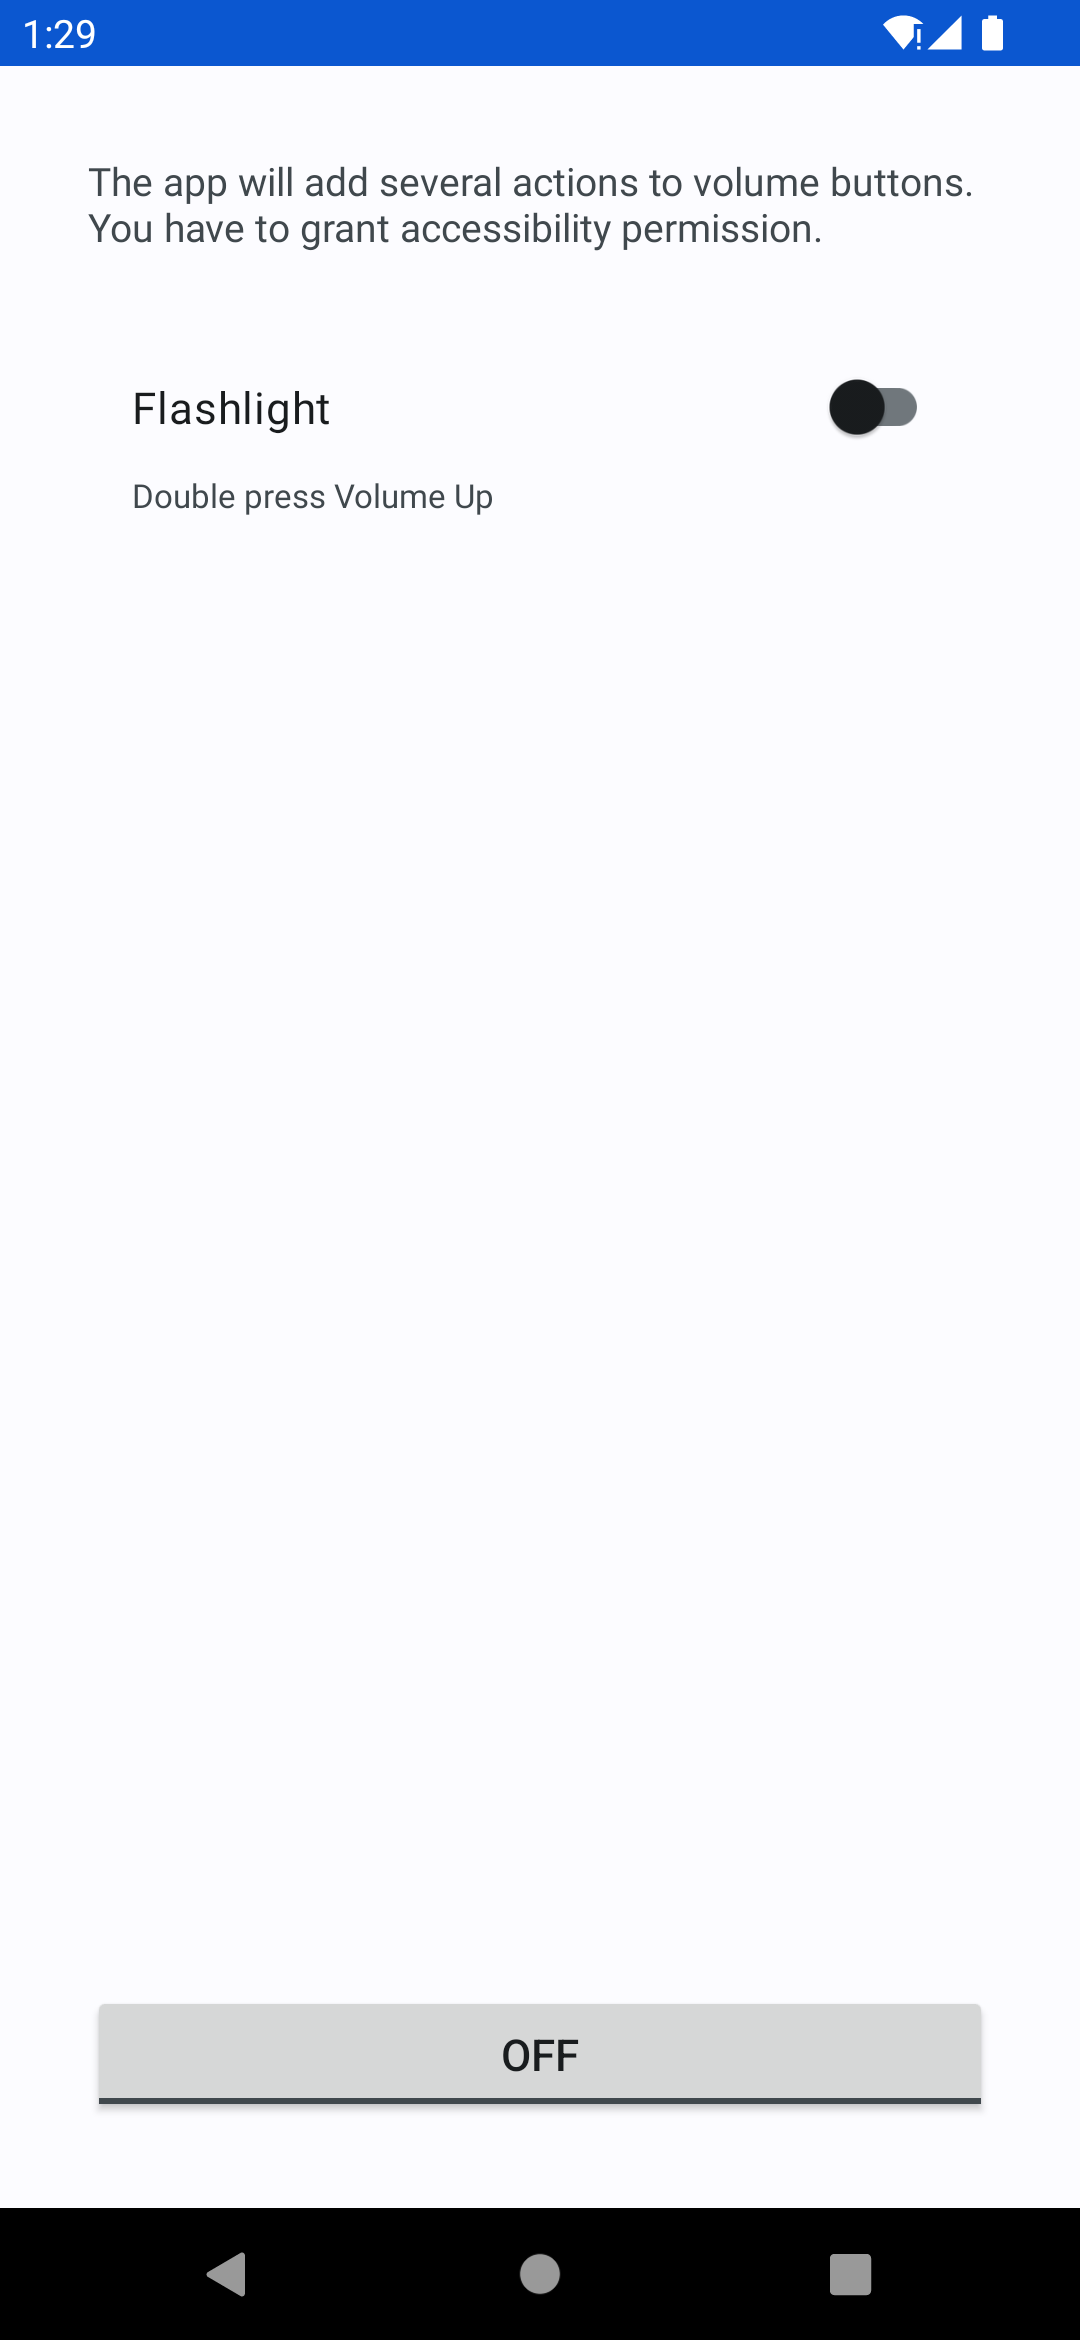
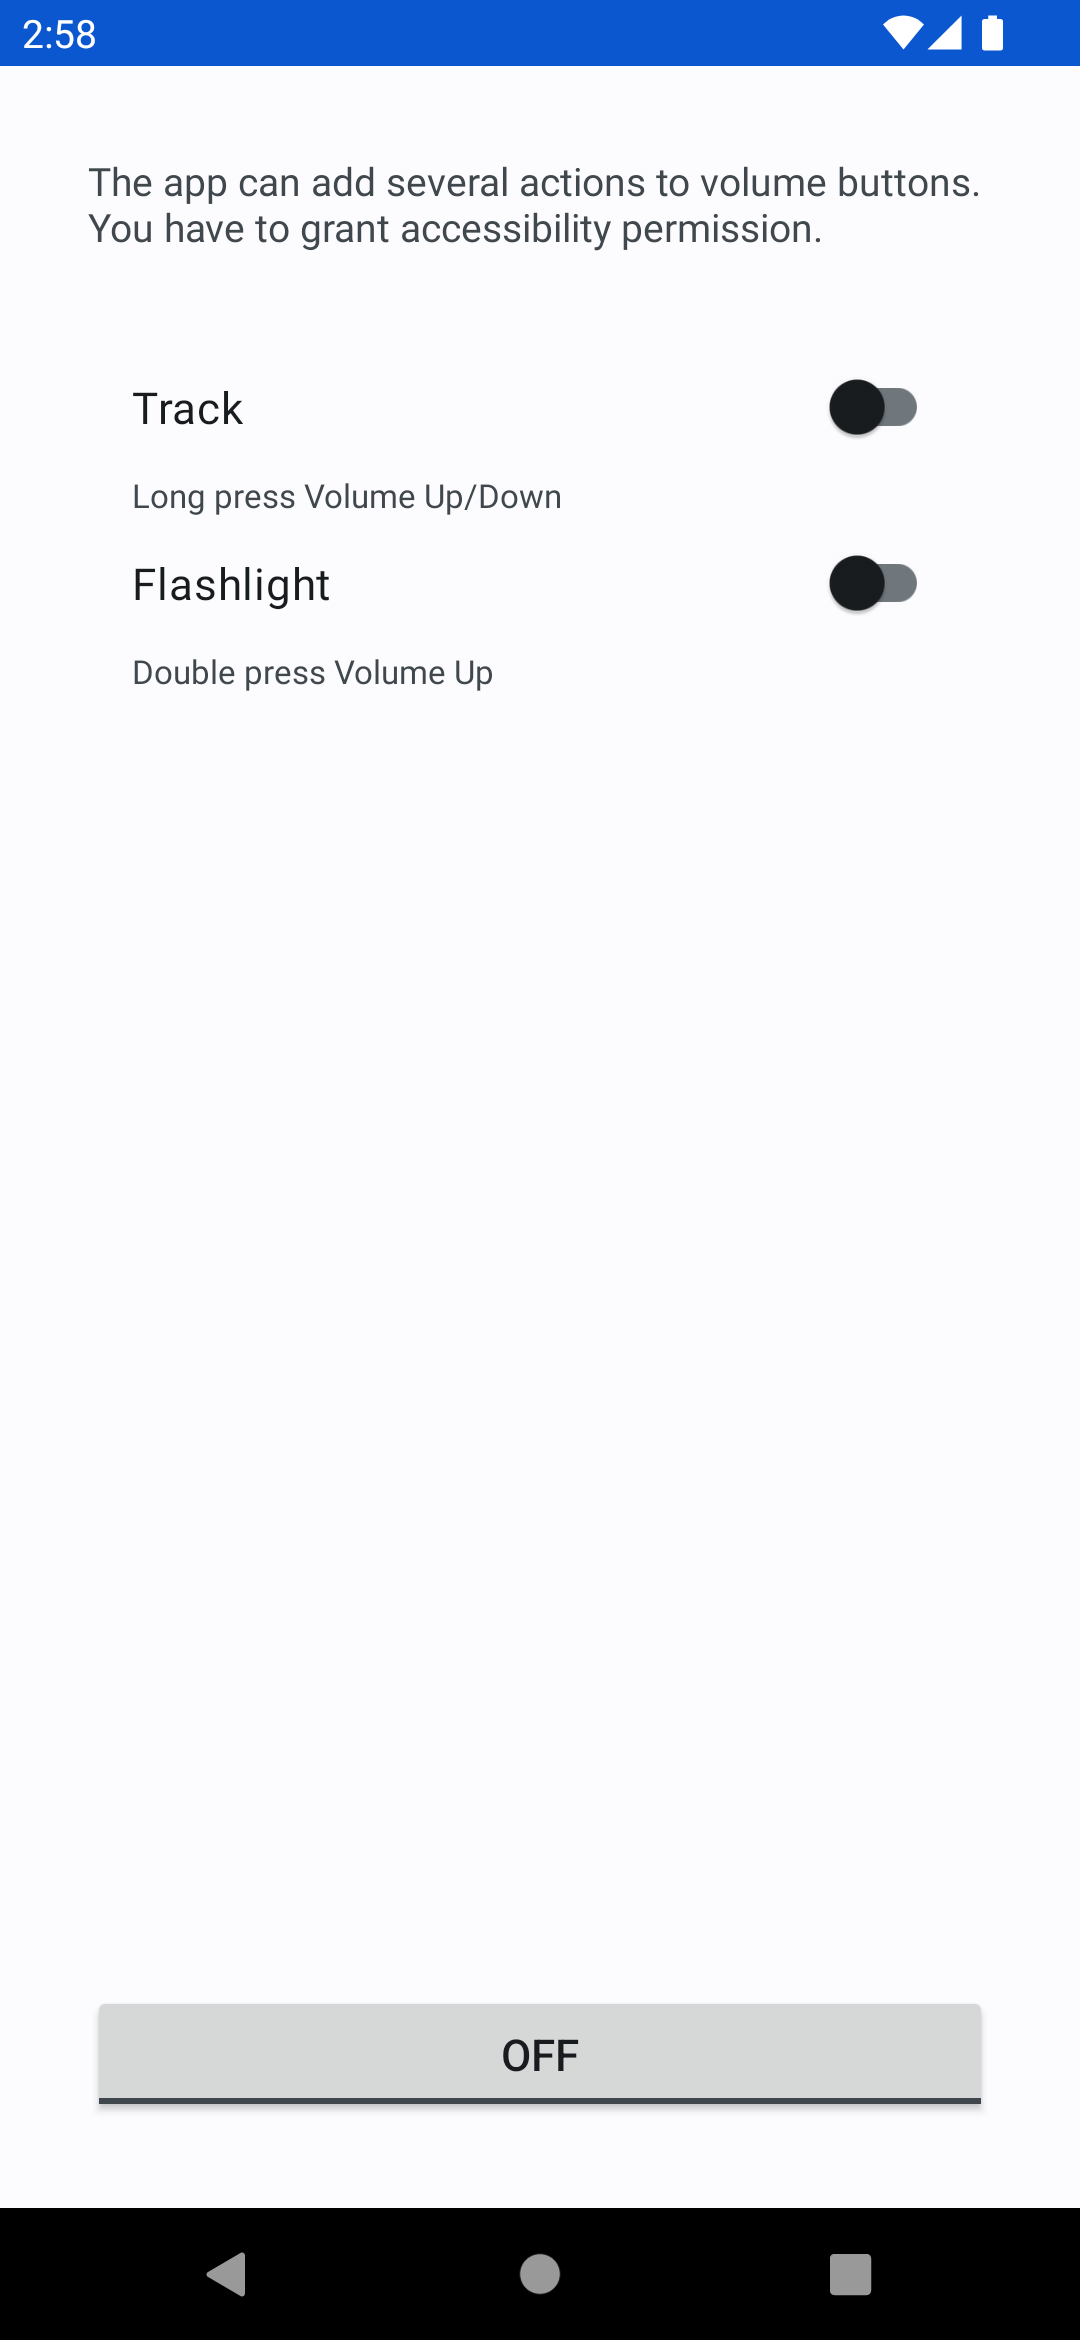
v1.0.4
change track switch
remove flashlight subsettings
auto-disable flashlight after 15m

diff --git a/app/src/main/java/me/lucky/volta/AccessibilityService.kt b/app/src/main/java/me/lucky/volta/AccessibilityService.kt
@@ -2,10 +2,6 @@ package me.lucky.volta
 
 import android.Manifest
 import android.accessibilityservice.AccessibilityService
-import android.hardware.Sensor
-import android.hardware.SensorEvent
-import android.hardware.SensorEventListener
-import android.hardware.SensorManager
 import android.hardware.camera2.CameraCharacteristics
 import android.hardware.camera2.CameraManager
 import android.media.AudioManager
@@ -28,11 +24,9 @@ class AccessibilityService : AccessibilityService() {
     }
 
     private lateinit var prefs: Preferences
-    private lateinit var proximityListener: ProximityListener
+    private lateinit var torchCallback: TorchCallback
     private var audioManager: AudioManager? = null
     private var cameraManager: CameraManager? = null
-    private var sensorManager: SensorManager? = null
-    private var proximitySensor: Sensor? = null
     private var vibrator: Vibrator? = null
     @RequiresApi(Build.VERSION_CODES.O)
     private var vibrationEffect: VibrationEffect? = null
@@ -43,7 +37,6 @@ class AccessibilityService : AccessibilityService() {
     private val longUpFlag = AtomicBoolean()
     private val doubleUpFlag = AtomicBoolean()
     private val upTime = AtomicLong()
-    private val torchCallback = TorchCallback()
 
     override fun onCreate() {
         super.onCreate()
@@ -60,16 +53,14 @@ class AccessibilityService : AccessibilityService() {
         longUpTask?.cancel()
         doubleUpTask?.cancel()
         cameraManager?.unregisterTorchCallback(torchCallback)
-        sensorManager?.unregisterListener(proximityListener)
+        torchCallback.disableFlashlightTask?.cancel()
     }
 
     private fun init() {
         prefs = Preferences(this)
-        proximityListener = ProximityListener(WeakReference(this))
+        torchCallback = TorchCallback(WeakReference(this))
         audioManager = getSystemService(AudioManager::class.java)
         cameraManager = getSystemService(CameraManager::class.java)
-        sensorManager = getSystemService(SensorManager::class.java)
-        proximitySensor = sensorManager?.getDefaultSensor(Sensor.TYPE_PROXIMITY)
         vibrator = if (Build.VERSION.SDK_INT >= Build.VERSION_CODES.S) {
             getSystemService(VibratorManager::class.java)?.defaultVibrator
         } else {
@@ -85,7 +76,6 @@ class AccessibilityService : AccessibilityService() {
             cameraManager?.registerTorchCallback(torchCallback, null)
         } catch (exc: IllegalArgumentException) {
             cameraManager = null
-            sensorManager = null
         }
     }
 
@@ -103,28 +93,20 @@ class AccessibilityService : AccessibilityService() {
     override fun onInterrupt() {}
 
     override fun onKeyEvent(event: KeyEvent?): Boolean {
-        if (event == null || !prefs.isServiceEnabled) return false
-        var result = super.onKeyEvent(event)
+        if (event == null ||
+            !prefs.isServiceEnabled ||
+            audioManager?.mode != AudioManager.MODE_NORMAL) return false
         val isMusicActive = audioManager?.isMusicActive == true
-        val isAudioModeNormal = audioManager?.mode == AudioManager.MODE_NORMAL
-        var isFlashlight = prefs.isFlashlightChecked
-        if (isFlashlight) {
-            val flag = prefs.flashlightFlag
-            if (flag.and(FlashlightFlag.MUSIC.value) == 0) {
-                isFlashlight = isFlashlight && !isMusicActive
-            }
-            if (flag.and(FlashlightFlag.CALL.value) == 0) {
-                isFlashlight = isFlashlight && isAudioModeNormal
-            }
-        }
-        if (isMusicActive && isAudioModeNormal)
+        if (prefs.isTrackChecked && isMusicActive)
             when (event.keyCode) {
-                KeyEvent.KEYCODE_VOLUME_DOWN -> result = previousTrack(event)
-                KeyEvent.KEYCODE_VOLUME_UP -> result = nextTrack(event, isFlashlight)
+                KeyEvent.KEYCODE_VOLUME_DOWN -> return previousTrack(event)
+                KeyEvent.KEYCODE_VOLUME_UP -> return nextTrack(event)
             }
-        if (isFlashlight && event.keyCode == KeyEvent.KEYCODE_VOLUME_UP)
-            result = flashlight(event)
-        return result
+        else if (
+            prefs.isFlashlightChecked &&
+            !isMusicActive &&
+            event.keyCode == KeyEvent.KEYCODE_VOLUME_UP) return flashlight(event)
+        return super.onKeyEvent(event)
     }
 
     private fun previousTrack(event: KeyEvent): Boolean {
@@ -175,7 +157,7 @@ class AccessibilityService : AccessibilityService() {
         ))
     }
 
-    private fun nextTrack(event: KeyEvent, isFlashlight: Boolean): Boolean {
+    private fun nextTrack(event: KeyEvent): Boolean {
         when (event.action) {
             KeyEvent.ACTION_DOWN -> {
                 longUpTask?.cancel()
@@ -189,7 +171,7 @@ class AccessibilityService : AccessibilityService() {
             }
             KeyEvent.ACTION_UP -> {
                 longUpTask?.cancel()
-                if (!isFlashlight && !longUpFlag.getAndSet(false)) volumeUp()
+                if (!longUpFlag.getAndSet(false)) volumeUp()
                 return true
             }
         }
@@ -202,23 +184,13 @@ class AccessibilityService : AccessibilityService() {
                 if (event.eventTime - upTime.getAndSet(event.eventTime) < DOUBLE_PRESS_DURATION) {
                     doubleUpTask?.cancel()
                     doubleUpFlag.set(true)
-                    if (sensorManager != null && proximitySensor != null) {
-                        sensorManager?.registerListener(
-                            proximityListener,
-                            proximitySensor,
-                            SensorManager.SENSOR_DELAY_FASTEST,
-                        )
-                    } else {
-                        toggleFlashlight()
-                        vibrate()
-                    }
+                    toggleFlashlight()
+                    vibrate()
                 }
                 return true
             }
             KeyEvent.ACTION_UP -> {
-                if (!longUpFlag.getAndSet(false) &&
-                    !doubleUpFlag.getAndSet(false))
-                {
+                if (!doubleUpFlag.getAndSet(false)) {
                     doubleUpTask?.cancel()
                     doubleUpTask = Timer()
                     doubleUpTask?.schedule(timerTask { volumeUp() }, DOUBLE_PRESS_DURATION)
@@ -229,9 +201,14 @@ class AccessibilityService : AccessibilityService() {
         return false
     }
 
-    @RequiresPermission("android.permission.FLASHLIGHT")
     private fun toggleFlashlight() {
         val state = !torchCallback.state.get()
+        torchCallback.internalState.set(state)
+        if (!setTorchMode(state)) torchCallback.internalState.set(false)
+    }
+
+    @RequiresPermission("android.permission.FLASHLIGHT")
+    private fun setTorchMode(value: Boolean): Boolean {
         try {
             cameraManager?.setTorchMode(
                 cameraManager
@@ -240,43 +217,34 @@ class AccessibilityService : AccessibilityService() {
                         cameraManager
                             ?.getCameraCharacteristics(it)
                             ?.get(CameraCharacteristics.FLASH_INFO_AVAILABLE) ?: false
-                    } ?: return,
-                state,
+                    } ?: return false,
+                value,
             )
-
-        } catch (exc: Exception) { return }
-        torchCallback.state.set(state)
+        } catch (exc: Exception) { return false }
+        return true
     }
 
-    private class TorchCallback: CameraManager.TorchCallback() {
+    private class TorchCallback(
+        private val service: WeakReference<me.lucky.volta.AccessibilityService>,
+    ) : CameraManager.TorchCallback() {
+        companion object {
+            private const val DISABLE_FLASHLIGHT_DELAY = 15 * 60 * 1000L
+        }
+
         val state = AtomicBoolean()
+        val internalState = AtomicBoolean()
+        var disableFlashlightTask: Timer? = null
 
         override fun onTorchModeChanged(cameraId: String, enabled: Boolean) {
             super.onTorchModeChanged(cameraId, enabled)
+            disableFlashlightTask?.cancel()
             state.set(enabled)
-        }
-    }
-
-    private class ProximityListener(
-        private val service: WeakReference<me.lucky.volta.AccessibilityService>,
-    ) : SensorEventListener {
-        companion object {
-            private const val SENSITIVITY = 4
-        }
-
-        override fun onSensorChanged(event: SensorEvent?) {
-            if (event == null || event.sensor.type != Sensor.TYPE_PROXIMITY) return
-            val service = service.get() ?: return
-            val value = event.values.getOrNull(0)
-            if (value == null || value < -SENSITIVITY || value > SENSITIVITY) {
-                service.toggleFlashlight()
-                service.vibrate()
-            } else {
-                service.volumeUp()
+            if (internalState.getAndSet(false) && enabled) {
+                disableFlashlightTask = Timer()
+                disableFlashlightTask?.schedule(timerTask {
+                    service.get()?.setTorchMode(false)
+                }, DISABLE_FLASHLIGHT_DELAY)
             }
-            service.sensorManager?.unregisterListener(service.proximityListener)
         }
-
-        override fun onAccuracyChanged(sensor: Sensor?, accuracy: Int) {}
     }
 }

diff --git a/app/src/main/java/me/lucky/volta/MainActivity.kt b/app/src/main/java/me/lucky/volta/MainActivity.kt
@@ -35,6 +35,7 @@ class MainActivity : AppCompatActivity() {
         cameraManager = getSystemService(CameraManager::class.java)
         if (!hasFlashlight()) hideFlashlight()
         binding.apply {
+            track.isChecked = prefs.isTrackChecked
             flashlight.isChecked = prefs.isFlashlightChecked
             toggle.isChecked = prefs.isServiceEnabled
         }
@@ -52,12 +53,11 @@ class MainActivity : AppCompatActivity() {
 
     private fun setup() {
         binding.apply {
+            track.setOnCheckedChangeListener { _, isChecked ->
+                prefs.isTrackChecked = isChecked
+            }
             flashlight.setOnCheckedChangeListener { _, isChecked ->
                 prefs.isFlashlightChecked = isChecked
-            }
-            flashlight.setOnLongClickListener {
-                showFlashlightSettings()
-                true
             }
             toggle.setOnCheckedChangeListener { _, isChecked ->
                 prefs.isServiceEnabled = isChecked
@@ -76,26 +76,6 @@ class MainActivity : AppCompatActivity() {
             }
             .setNegativeButton(R.string.exit) { _, _ ->
                 finishAndRemoveTask()
-            }
-            .show()
-    }
-
-    private fun showFlashlightSettings() {
-        var flag = prefs.flashlightFlag
-        val values = FlashlightFlag.values()
-        MaterialAlertDialogBuilder(this)
-            .setMultiChoiceItems(
-                resources.getStringArray(R.array.flashlight_flag),
-                values.map { flag.and(it.value) != 0 }.toBooleanArray()
-            ) { _, index, isChecked ->
-                val value = values[index]
-                flag = when (isChecked) {
-                    true -> flag.or(value.value)
-                    false -> flag.and(value.value.inv())
-                }
-            }
-            .setPositiveButton(android.R.string.ok) { _, _ ->
-                prefs.flashlightFlag = flag
             }
             .show()
     }

diff --git a/app/src/main/java/me/lucky/volta/Preferences.kt b/app/src/main/java/me/lucky/volta/Preferences.kt
@@ -7,12 +7,9 @@ import androidx.preference.PreferenceManager
 class Preferences(ctx: Context) {
     companion object {
         private const val SERVICE_ENABLED = "service_enabled"
+        private const val TRACK_CHECKED = "track_checked"
         private const val FLASHLIGHT_CHECKED = "flashlight_checked"
-        private const val FLASHLIGHT_FLAG = "flashlight_flag"
         private const val SHOW_PROMINENT_DISCLOSURE = "show_prominent_disclosure"
-
-        // migration
-        private const val PROMINENT_DISCLOSURE = "prominent_disclosure"
     }
 
     private val prefs = PreferenceManager.getDefaultSharedPreferences(ctx)
@@ -21,23 +18,15 @@ class Preferences(ctx: Context) {
         get() = prefs.getBoolean(SERVICE_ENABLED, false)
         set(value) = prefs.edit { putBoolean(SERVICE_ENABLED, value) }
 
+    var isTrackChecked: Boolean
+        get() = prefs.getBoolean(TRACK_CHECKED, false)
+        set(value) = prefs.edit { putBoolean(TRACK_CHECKED, value) }
+
     var isFlashlightChecked: Boolean
         get() = prefs.getBoolean(FLASHLIGHT_CHECKED, false)
         set(value) = prefs.edit { putBoolean(FLASHLIGHT_CHECKED, value) }
 
-    var flashlightFlag: Int
-        get() = prefs.getInt(FLASHLIGHT_FLAG, 0)
-        set(value) = prefs.edit { putInt(FLASHLIGHT_FLAG, value) }
-
     var isShowProminentDisclosure: Boolean
-        get() = prefs.getBoolean(
-            SHOW_PROMINENT_DISCLOSURE,
-            prefs.getBoolean(PROMINENT_DISCLOSURE, true),
-        )
+        get() = prefs.getBoolean(SHOW_PROMINENT_DISCLOSURE, true)
         set(value) = prefs.edit { putBoolean(SHOW_PROMINENT_DISCLOSURE, value) }
-}
-
-enum class FlashlightFlag(val value: Int) {
-    MUSIC(1),
-    CALL(1 shl 1),
 }
